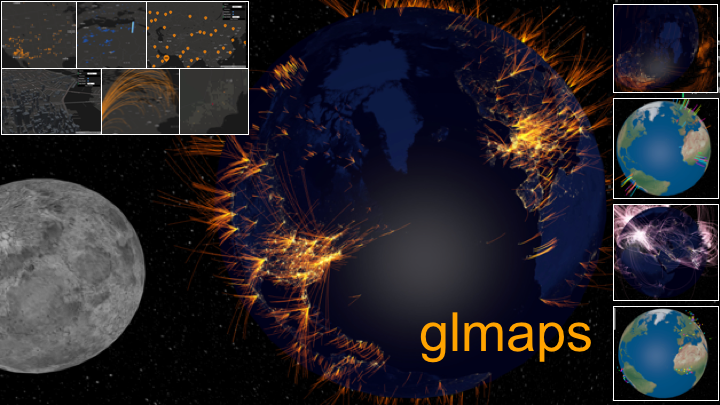
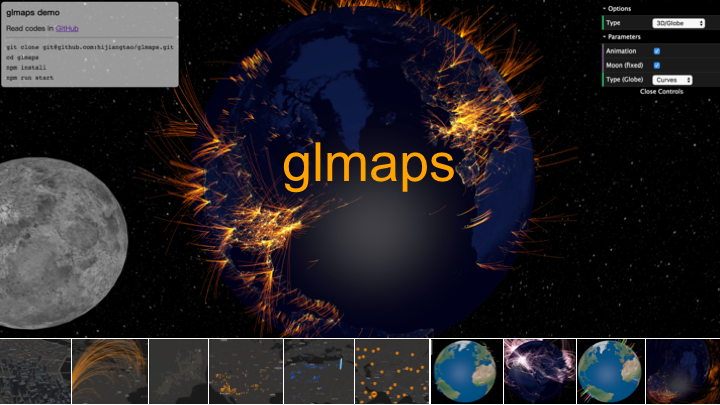
README Update (#3)
* update: LOGO

* update: delete Globe point visualization types in demo configs

* 0.0.1

* update: README EN

* update: README CN

diff --git a/examples/state.js b/examples/state.js
@@ -41,10 +41,12 @@ const PARAMS_TYPES = [{
 const GLOBE_SHAPES = [{
   name: 'Curves',
   value: 'curve',
-}, {
-  name: 'Points',
-  value: 'point',
-}, {
+}, 
+// {
+//   name: 'Points',
+//   value: 'point',
+// }, 
+{
   name: 'CubeMap',
   value: 'cube',
 }]

diff --git a/README.md b/README.md
@@ -1,10 +1,10 @@
-<p align="center"><img width="100" src="https://hijiangtao.github.io/glmaps/assets/glmaps.png" alt="glmaps logo"></p>
+<p align="center"><img width="70%" src="./assets/screenshots/glmaps.png" alt="glmaps logo"></p>
 
 <h1 align="center">glmaps</h1>
 
 <center>
 
-Earth and map visualization example codes and tutorials.
+Spatio-temporal data visualization example codes and learning tutorials.
 
 [![Codacy Badge](https://api.codacy.com/project/badge/Grade/c913db53b5a3470f840f5329ea2f54d4)](https://www.codacy.com/app/hijiangtao/glmaps?utm_source=github.com&utm_medium=referral&utm_content=hijiangtao/glmaps&utm_campaign=badger)
 [![npm](https://img.shields.io/npm/v/glmaps.svg)](https://www.npmjs.com/package/glmaps)
@@ -25,42 +25,48 @@ Earth and map visualization example codes and tutorials.
 
 ## What is glmaps?
 
-A node package full of bunch of earth and map visualization examples based on Three.js and Deck.gl, easy to learn and use. 
+`glmaps` is a project full of bunch of earth and map visualization examples based on Three.js and Deck.gl, as well as some tutorials for visualization beginners. Easy to learn and use. 
 
 ## MENU
 
-* [Overview](#Overview) - Check all visualization types that `glmaps` contains.
-* [ZERO](#ZERO) - Some thoughts from me that you may pay attention before have future reading.
-* [Demo](#Demo) - Open browser and enter <https://localhost:8080> to check the demo locally.
-* [Tutorials](#) - A series of tutorials that guide you how to code these visualization examples step by step. TBD.
-* [Install](#Install) - Installation guide for developers. Just have a try, `glmaps` has not get ready for industry applications.
-* [Usage](#Usage) - Usage for how to include `glmaps` in your application.
-* [Document](#) - API document for `glmaps`. TBD.
-* [Stories](#Stories) - Stories behind this repositry.
-* [Contact](#Contact)
-* [LICENSE](#LICENSE)
+1. [Overview](#Overview) - Check all visualization types that `glmaps` contains.
+2. [ZERO](#ZERO) - Some thoughts from me that you may pay attention before have future reading.
+3. [Demo](#Demo) - Open browser and enter <https://localhost:8080> to check the demo locally.
+4. [Tutorials](#Tutorials) - A series of tutorials that guide you how to code these visualization examples step by step. TBD.
+5. [Install](#Install) - Installation guide for developers. Just have a try, `glmaps` has not get ready for industry applications.
+6. [Usage](#Usage) - Usage for how to include `glmaps` in your application.
+7. [Documents](#Documents) - API document for `glmaps`. TBD.
+8. [Stories](#Stories) - Stories behind this repositry.
+9. [Contact](#Contact)
+10. [LICENSE](#LICENSE)
 
 ## Overview
 
+Check all visualization types that `glmaps` contains, `2.5D` means you can draw 3D geometries on a 2D map, `3D` means a total 3D data visualization approach.
+
 |Type|Description|Demo|Animation|Cluster|
 |---|---|---|---|---|
+|[3D / Curve](./src/globe/index.js)|THREE.BufferGeometry()| [![](./assets/screenshots/Globe-Curve.jpeg)](./src/globe/index.js) | Yes | No |
+|[3D / Mover](./src/globe/index.js)|THREE.SphereGeometry()| [![](./assets/screenshots/Globe-Point.jpeg)](./src/globe/index.js) | Yes | No |
+|[3D / Cube](./src/globe/index.js)|THREE.BoxGeometry()| [![](./assets/screenshots/Globe-Cube.jpeg)](./src/globe/index.js) | No | No |
 |[2.5D / Icon](./src/layers/IconLayer/index.js)|No modification from deck| [![](./assets/screenshots/IconLayer.jpeg)](./src/layers/IconLayer/index.js) | No | Yes |
 |[2.5D / Brush](./src/layers/ArcLayer/animate.js)|Support OD Arc Animation| [![](./assets/screenshots/BrushArcLayer.jpeg)](./src/layers/ArcLayer/animate.js) | Yes | No |
 |[2.5D / Scatter](./src/layers/ScatterplotLayer/index.js)|Support Fade-out Animation| [![](./assets/screenshots/ScatterplotLayer.jpeg)](./src/layers/ScatterplotLayer/index.js) | Yes | No |
 |[2.5D / Hexagon](./src/layers/HexagonLayer/index.js)|Support Coverage Filter Conditions| [![](./assets/screenshots/HexagonLayer.jpeg)](./src/layers/HexagonLayer/index.js) | Yes | Yes |
 |[2.5D / Grid](./src/layers/ScreenGridLayer/index.js)|Support Coverage Filter Conditions| [![](./assets/screenshots/ScreenGridLayer.jpeg)](./src/layers/ScreenGridLayer/index.js) | No | Yes |
 |[2.5D / Trip](./src/layers/TripLayer/index.js)|No modification from deck| [![](./assets/screenshots/TripLayer.jpeg)](./src/layers/TripLayer/index.js) | Yes | No |
-|[3D / Curve](./src/globe/index.js)|THREE.BufferGeometry()| [![](./assets/screenshots/Globe-Curve.jpeg)](./src/globe/index.js) | Yes | No |
-|[3D / Mover](./src/globe/index.js)|THREE.SphereGeometry()| [![](./assets/screenshots/Globe-Point.jpeg)](./src/globe/index.js) | Yes | No |
-|[3D / Cube](./src/globe/index.js)|THREE.BoxGeometry()| [![](./assets/screenshots/Globe-Cube.jpeg)](./src/globe/index.js) | No | No |
 |[Other / Segment](./src/globe/index.js)|The same as curve animation| [![](./assets/screenshots/Globe-CurveSegment.jpeg)](./src/globe/index.js) | No | No |
 |[Other / Moon](./src/globe/index.js)|Earth-Moon System| [![](./assets/screenshots/Globe-Moon.jpeg)](./src/globe/index.js) | No | No |
 
 ## ZERO
 
+Thanks for your attention in this project, there are some thoughts from me that you may pay attention before have future reading.
+
 **Q: What frameworks are used in `glmaps`?**
 
-React Hooks is ready in 16.8.0, and `glmaps` get benefits from it at once, if you are not familiar with it, please check [Introducing Hooks](https://reactjs.org/docs/hooks-intro.html) first; On the other hand, deck.gl is WebGL2 powered geospatial visualization layers, so please make sure your browser support WebGL2. To find out if WebGL(2) is enabled in your browser, go to <http://get.webgl.org/> or <https://get.webgl.org/webgl2/>. Besides, if you meet any errors, you can put your problem in issues, because that's most likely a problem of `glmaps` rather than yourself, since `glmaps` organizes local development environment from scratch, such as webpack, babel, etc.
+**React Hooks** is ready in 16.8.0, and `glmaps` get benefits from it at once, if you are not familiar with it, please check [Introducing Hooks](https://reactjs.org/docs/hooks-intro.html) first; On the other hand, deck.gl is **WebGL2** powered geospatial visualization layers, so please make sure your browser support WebGL2. To find out if WebGL(2) is enabled in your browser, go to <http://get.webgl.org/> or <https://get.webgl.org/webgl2/>. 
+
+Besides, if you meet any errors when depoly it locally, you can describe your problem with [issues](https://github.com/hijiangtao/glmaps/issues/new), because that's most likely a problem of `glmaps` rather than yourself, since `glmaps` organizes local development environment from scratch, such as webpack, babel, etc.
 
 **Q: Guidance for visualization beginners?**
 
@@ -76,12 +82,14 @@ I highly recommend you follows these steps in using `glmaps`:
 
 `glmaps` is still at the very beginning period of my thoughts, you are welcome to oepn ISSUE, PR or email me, if you have any ideas on how to make `glmaps` better for visualization beginners:
   - Participate in implementing tutorials together;
-  - Contribute codes to `glmaps` with PR (such as imporve `mover` animation in `Globe`);
-  - Speak out your doubts in learning data visualization with issues;
-  - Tell me your advice on how to make `glmaps` better with issues;
+  - Contribute codes to `glmaps` with [PR](https://github.com/hijiangtao/glmaps/pulls) (such as imporve `mover` animation in `Globe`);
+  - Speak out your doubts in learning data visualization with [issues](https://github.com/hijiangtao/glmaps/issues/new);
+  - Tell me your advice on how to make `glmaps` better with [issues](https://github.com/hijiangtao/glmaps/issues/new);
   - Other aspects not included yet.
 
 ## Demo
+
+Open browser and enter <https://localhost:8080> to check the demo locally. Please enjoy the power of `three.js` and `deck.gl`.
 
 ```
 git clone git@github.com:hijiangtao/glmaps.git
@@ -90,16 +98,22 @@ npm install
 npm run start
 ```
 
-## Tutorials (TBD)
+## Tutorials
 
-* Manage your three.js application with React
-* Draw a earth-moon system with three.js from scratch
-* How to draw curve, mover and cube with three.js
-* Animate your deck.gl with props and transitions
-* Animate your deck.gl with shaders
-* Some tips in visualizing data with deck.gl
+A series of spatio-temporal data visualization tutorials that guide you how to code these visualization examples step by step. TBD.
+
+* Visualization Tutorials from scratch (I) - Introduction of data visualization with three.js
+* Visualization Tutorials from scratch (II) - Introduction of data visualization with deck.gl
+* Visualization Tutorials from scratch (III) - Manage your three.js application with React
+* Visualization Tutorials from scratch (IV) - Draw a earth-moon system with three.js from scratch
+* Visualization Tutorials from scratch (V) - How to draw curve, mover and cube with three.js
+* Visualization Tutorials from scratch (VI) - Animate your layers with props and transitions
+* Visualization Tutorials from scratch (VII) - Animate your deck.gl with customized shaders
+* Visualization Tutorials from scratch (VIII) - Some tips in data visualization with deck.gl and three.js
 
 ## Install
+
+The installation is for developers who wants to use `glmaps` in their demos.
 
 ```
 cd YOUR_REPO
@@ -141,25 +155,28 @@ const Demo = (props) => {
 
 More examples and detailed usage guidances can be found in documents.
 
-## Document (TBD)
+## Documents
 
 This part is still under constructing, however, you can access full codes in `src` folder right now.
 
-* [Layers (on Maps)](./layers/README.md)
+* [Layers (2.5D Map)](./layers/README.md)
   1. ArcLayer
   2. HexagonLayer
   3. IconLayer
   4. ScatterplotLayer
   5. ScreenGridLayer
   6. TripLayer
-* [Globe](./globe/README.md)
+* [Globe (3D Space)](./globe/README.md)
   1. Curve
   2. Mover
   3. Cube
+  4. Moon
 
 ## Stories
 
-Why I create this repositry?
+**Q: Why I create this repositry?**
+
+A: I am really impressed by many open source developers when I learning how to visualize data on Web. They had contributed a lof of codes and resources in guiding beginners. I want to record what I learned and coded with these visualization frameworks, and hope that can raise your interests in data visualization, too.
 
 ## Contact
 

diff --git a/CN.md b/CN.md
@@ -1,10 +1,10 @@
-<p align="center"><img width="100" src="https://hijiangtao.github.io/glmaps/assets/glmaps.png" alt="glmaps logo"></p>
+<p align="center"><img width="70%" src="./assets/screenshots/glmaps.png" alt="glmaps logo"></p>
 
 <h1 align="center">glmaps</h1>
 
 <center>
 
-时空可视化示例代码集与学习教程。
+时空数据可视化示例代码集与学习教程。
 
 [![Codacy Badge](https://api.codacy.com/project/badge/Grade/c913db53b5a3470f840f5329ea2f54d4)](https://www.codacy.com/app/hijiangtao/glmaps?utm_source=github.com&utm_medium=referral&utm_content=hijiangtao/glmaps&utm_campaign=badger)
 [![npm](https://img.shields.io/npm/v/glmaps.svg)](https://www.npmjs.com/package/glmaps)
@@ -25,25 +25,71 @@
 
 ## glmaps 是什么？
 
-glmaps 是一个包含多个时空可视化示例的代码集与学习教程，这是一个采用 MIT 协议的开源项目。该项目中的可视化效果基于可视化库 three.js 与 deck.gl 实现，非常容易上手，希望本项目对正在时空可视化学习之路上探寻的你有所帮助。
+glmaps 是一个包含多个时空数据可视化示例代码集与学习教程的开源项目。该项目中的可视化效果基于可视化库 `three.js` 与 `deck.gl` 实现，非常容易上手，希望本项目对正在时空可视化学习之路上探寻的你有所帮助。
+
+## 目录
+
+1. [概览](#概览) - 快速查阅 `glmaps` 都包含哪些数据可视化形式
+2. [ZERO](#ZERO) - 在你进一步阅读本项目之前，想对你说的一些话
+3. [Demo](#Demo) - 在本地运行可视化 Demo
+4. [从零开始学习时空数据可视化系列教程](#从零开始学习时空数据可视化系列教程) - 暂定八篇
+5. [安装](#安装) - 本地安装 `glmaps` 并开始试用（可选）
+6. [用法](#用法) - 用法示例
+7. [文档](#文档) - `glmaps` API 文档（TBD）
+8. [背后的故事](#背后的故事)
+9. [联系方式](#联系方式)
+10. [协议](#协议)
 
 ## 概览
 
+`glmaps` 现包含有如下几种可视化形式，更多案例正在丰富中。其中 `2.5D` 意指在2D地图上绘制2D或者3D的物体，`3D` 意指完全在三维空间中实现时空数据的可视化效果。
+
 |类型|描述|效果|支持动画|支持聚类|
 |---|---|---|---|---|
+|3D / Curve|THREE.BufferGeometry()| [![](./assets/screenshots/Globe-Curve.jpeg)](./src/globe/index.js) | Yes | No |
+|3D / Mover|THREE.SphereGeometry()| [![](./assets/screenshots/Globe-Point.jpeg)](./src/globe/index.js) | Yes | No |
+|3D / Cube|THREE.BoxGeometry()| [![](./assets/screenshots/Globe-Cube.jpeg)](./src/globe/index.js) | No | No |
 |2.5D / Icon|与 deck 示例一致，无更改| [![](./assets/screenshots/IconLayer.jpeg)](./src/layers/IconLayer/index.js) | No | Yes |
 |2.5D / Brush|支持弧线动画| [![](./assets/screenshots/BrushArcLayer.jpeg)](./src/layers/ArcLayer/animate.js) | Yes | No |
 |2.5D / Scatter|支持淡出动画| [![](./assets/screenshots/ScatterplotLayer.jpeg)](./src/layers/ScatterplotLayer/index.js) | Yes | No |
 |2.5D / Hexagon|支持排序筛选| [![](./assets/screenshots/HexagonLayer.jpeg)](./src/layers/HexagonLayer/index.js) | Yes | Yes |
 |2.5D / Grid|支持排序筛选| [![](./assets/screenshots/ScreenGridLayer.jpeg)](./src/layers/ScreenGridLayer/index.js) | No | Yes |
 |2.5D / Trip|与 deck 示例一致，无更改| [![](./assets/screenshots/TripLayer.jpeg)](./src/layers/TripLayer/index.js) | Yes | No |
-|3D / Curve|THREE.BufferGeometry()| [![](./assets/screenshots/Globe-Curve.jpeg)](./src/globe/index.js) | Yes | No |
-|3D / Mover|THREE.SphereGeometry()| [![](./assets/screenshots/Globe-Point.jpeg)](./src/globe/index.js) | Yes | No |
-|3D / Cube|THREE.BoxGeometry()| [![](./assets/screenshots/Globe-Cube.jpeg)](./src/globe/index.js) | No | No |
 |Other / Segment|与飞线动画效果一致| [![](./assets/screenshots/Globe-CurveSegment.jpeg)](./src/globe/index.js) | No | No |
 |Other / Moon|地月系统| [![](./assets/screenshots/Globe-Moon.jpeg)](./src/globe/index.js) | No | No |
 
-## 本地运行 Demo
+## ZERO
+
+首先感谢你对 `glmaps` 项目的关注。在你进一步阅读本项目之前，想对你说的一些话。
+
+**Q: 除了列出的可视化框架，`glmaps` 项目还用到了哪些 Web 技术?**
+
+**React Hooks** is ready in 16.8.0, and `glmaps` get benefits from it at once, if you are not familiar with it, please check [Introducing Hooks](https://reactjs.org/docs/hooks-intro.html) first; On the other hand, deck.gl is **WebGL2** powered geospatial visualization layers, so please make sure your browser support WebGL2. To find out if WebGL(2) is enabled in your browser, go to <http://get.webgl.org/> or <https://get.webgl.org/webgl2/>. 
+
+Besides, if you meet any errors when depoly it locally, you can describe your problem with [issues](https://github.com/hijiangtao/glmaps/issues/new), because that's most likely a problem of `glmaps` rather than yourself, since `glmaps` organizes local development environment from scratch, such as webpack, babel, etc.
+
+**Q: Guidance for visualization beginners?**
+
+I highly recommend you follows these steps in using `glmaps`:
+  - Learn how to install three.js and deck.gl from scratch, and code your first "Hello World" with them;
+  - Run official demos and get familiar with their API;
+  - Follow the tutorials step by step to make your visualization examples more powerful, or check `glmaps` codes in `src` folder directly;
+  - (Optional) Use `glmaps` in your demo application;
+  - Rewrite `glmaps` example with your own codes;
+  - Congratulations on mastering basics of spatio-temporal visualization, you can use `three.js` and `deck.gl` to draw a more fantastic world with spatio-temporal data!
+
+**Q: How to participate in `glmaps` project?**
+
+`glmaps` is still at the very beginning period of my thoughts, you are welcome to oepn ISSUE, PR or email me, if you have any ideas on how to make `glmaps` better for visualization beginners:
+  - Participate in implementing tutorials together;
+  - Contribute codes to `glmaps` with [PR](https://github.com/hijiangtao/glmaps/pulls) (such as imporve `mover` animation in `Globe`);
+  - Speak out your doubts in learning data visualization with [issues](https://github.com/hijiangtao/glmaps/issues/new);
+  - Tell me your advice on how to make `glmaps` better with [issues](https://github.com/hijiangtao/glmaps/issues/new);
+  - Other aspects not included yet.
+
+## Demo
+
+打开浏览器输入 <https://localhost:8080> 在本地查看 glmaps 演示 Demo 吧。感受一下 `three.js` 与 `deck.gl` 在数据可视化上带给开发者的能力有多强大。
 
 ```
 git clone git@github.com:hijiangtao/glmaps.git
@@ -52,16 +98,22 @@ npm install
 npm run start
 ```
 
-## 从零开始学习时空可视化系列教程（待完善）
+## 从零开始学习时空数据可视化系列教程
 
-* 从零开始学习时空可视化（零） / 用 React 框架管理你的 three.js 项目 - TBD
-* 从零开始学习时空可视化（一） / 用 three.js 画出你的第一个地球 - TBD
-* 从零开始学习时空可视化（二） / 深入浅出 three.js 点、线、面、体的实现过程 - TBD
-* 从零开始学习时空可视化（三） / 利用 props 与 transitions 让你的 deck.gl 图层动起来 - TBD
-* 从零开始学习时空可视化（四） / 手写 shader 给你的 deck.gl 动画另辟蹊径 - TBD
-* 从零开始学习时空可视化（五） / 使用 three.js 和 deck.gl 开发的踩坑记录 - TBD
+暂定八篇教程，如有需要可以提 [issue]((https://github.com/hijiangtao/glmaps/issues/new)) 讨论。
+
+* 从零开始学习时空可视化（零） / three.js 入门笔记 - TBD
+* 从零开始学习时空可视化（一） / deck.gl 入门笔记 - TBD
+* 从零开始学习时空可视化（二） / 用 React 框架管理你的 three.js 项目 - TBD
+* 从零开始学习时空可视化（三） / 用 three.js 画出你的第一个地球 - TBD
+* 从零开始学习时空可视化（四） / 深入浅出 three.js 点、线、面、体的实现过程 - TBD
+* 从零开始学习时空可视化（五） / 利用 props 与 transitions 让你的 deck.gl 图层动起来 - TBD
+* 从零开始学习时空可视化（六） / 手写 shader 给你的 deck.gl 动画另辟蹊径 - TBD
+* 从零开始学习时空可视化（七） / 使用 three.js 和 deck.gl 开发的踩坑记录 - TBD
 
 ## 安装
+
+安装 `glmaps`，立刻在你的 demo 中使用上它。
 
 ```
 cd YOUR_REPO
@@ -103,23 +155,28 @@ const Demo = (props) => {
 
 更多示例与详细使用说明请见文档。
 
-## 文档（待完善）
+## 文档
 
 本部分仍处于完善阶段。然而，你现在就可以直接在 `src` 文件夹下查看所有示例代码集。
 
-* [Layers (on Maps)](./layers/README.md)
+* [Layers (2.5D Map)](./layers/README.md)
   1. ArcLayer
   2. HexagonLayer
   3. IconLayer
   4. ScatterplotLayer
   5. ScreenGridLayer
   6. TripLayer
-* [Globe](./globe/README.md)
+* [Globe (3D Space)](./globe/README.md)
   1. Curve
   2. Mover
   3. Cube
+  4. Moon
 
-## 联系
+## 背后的故事
+
+TBD
+
+## 联系方式
 
 @hijiangtao
 
